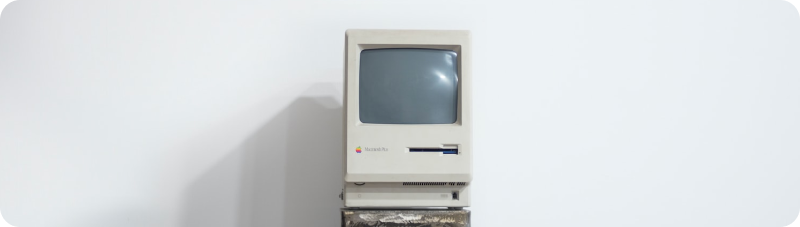
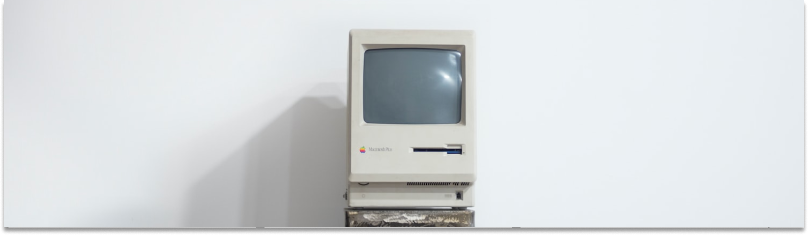
added more css

diff --git a/index.html b/index.html
@@ -8,26 +8,30 @@
     <link rel="stylesheet" href="screen.css">
 </head>
 <body>
-    <h1>Hello World</h1>
-    <img src="images/Computer image.png" alt="Vintage Mac">
-    <section>
-        <h2>History</h2>
-        <p>Test programs have always existed in software development, but the tradition of using "Hello, World!" as a test message was influenced by an example program in the 1978 book The C Programming Language. The example was taken from a 1974 Bell Laboratories internal memorandum by Brian Kernighan, one of the co-creators of the Unix operating system.</p>
-    </section>
-    <section> 
-        <h2> Example </h2>
-        <p> Here is a JavaScript Example:</p>
-        <code>
-            &lt;!DOCTYPE HTML&gt;
-            &lt;html&gt;
-                &lt;body&gt;
-                    &lt;script&gt;
-                        alert('Hello, World!')
-                    &lt;/script&gt;
-                &lt;/body&gt;
-            &lt;/html&gt;
-        </code>
-    </section>
+    <main>
+        <h1>Hello World</h1>
+        <img src="images/Computer image.png" alt="Vintage Mac">
+        <div class-"details">
+            <section>
+                <h2>History</h2>
+                <p>Test programs have always existed in software development, but the tradition of using "Hello, World!" as a test message was influenced by an example program in the 1978 book The C Programming Language. The example was taken from a 1974 Bell Laboratories internal memorandum by Brian Kernighan, one of the co-creators of the Unix operating system.</p>
+            </section>  
+        <section> 
+            <h2> Example </h2>
+            <p> Here is a JavaScript Example:</p>
+            <code>
+                &lt;!DOCTYPE HTML&gt;
+                &lt;html&gt;
+                    &lt;body&gt;
+                        &lt;script&gt;
+                            alert('Hello, World!')
+                        &lt;/script&gt;
+                    &lt;/body&gt;
+                &lt;/html&gt;
+            </code>
+        </section>
+    </div>  
+    </main>
     <script src="index.js"></script>
 </body>
 </html>

diff --git a/screen.css b/screen.css
@@ -5,6 +5,17 @@ body {
     margin: 0;
 }
 
+main {
+    margin: 0 auto;
+    width: 800px;
+}
+
+.details {
+    display: flex;
+}
+
+
+
 img {
     width: 100%;
 }
